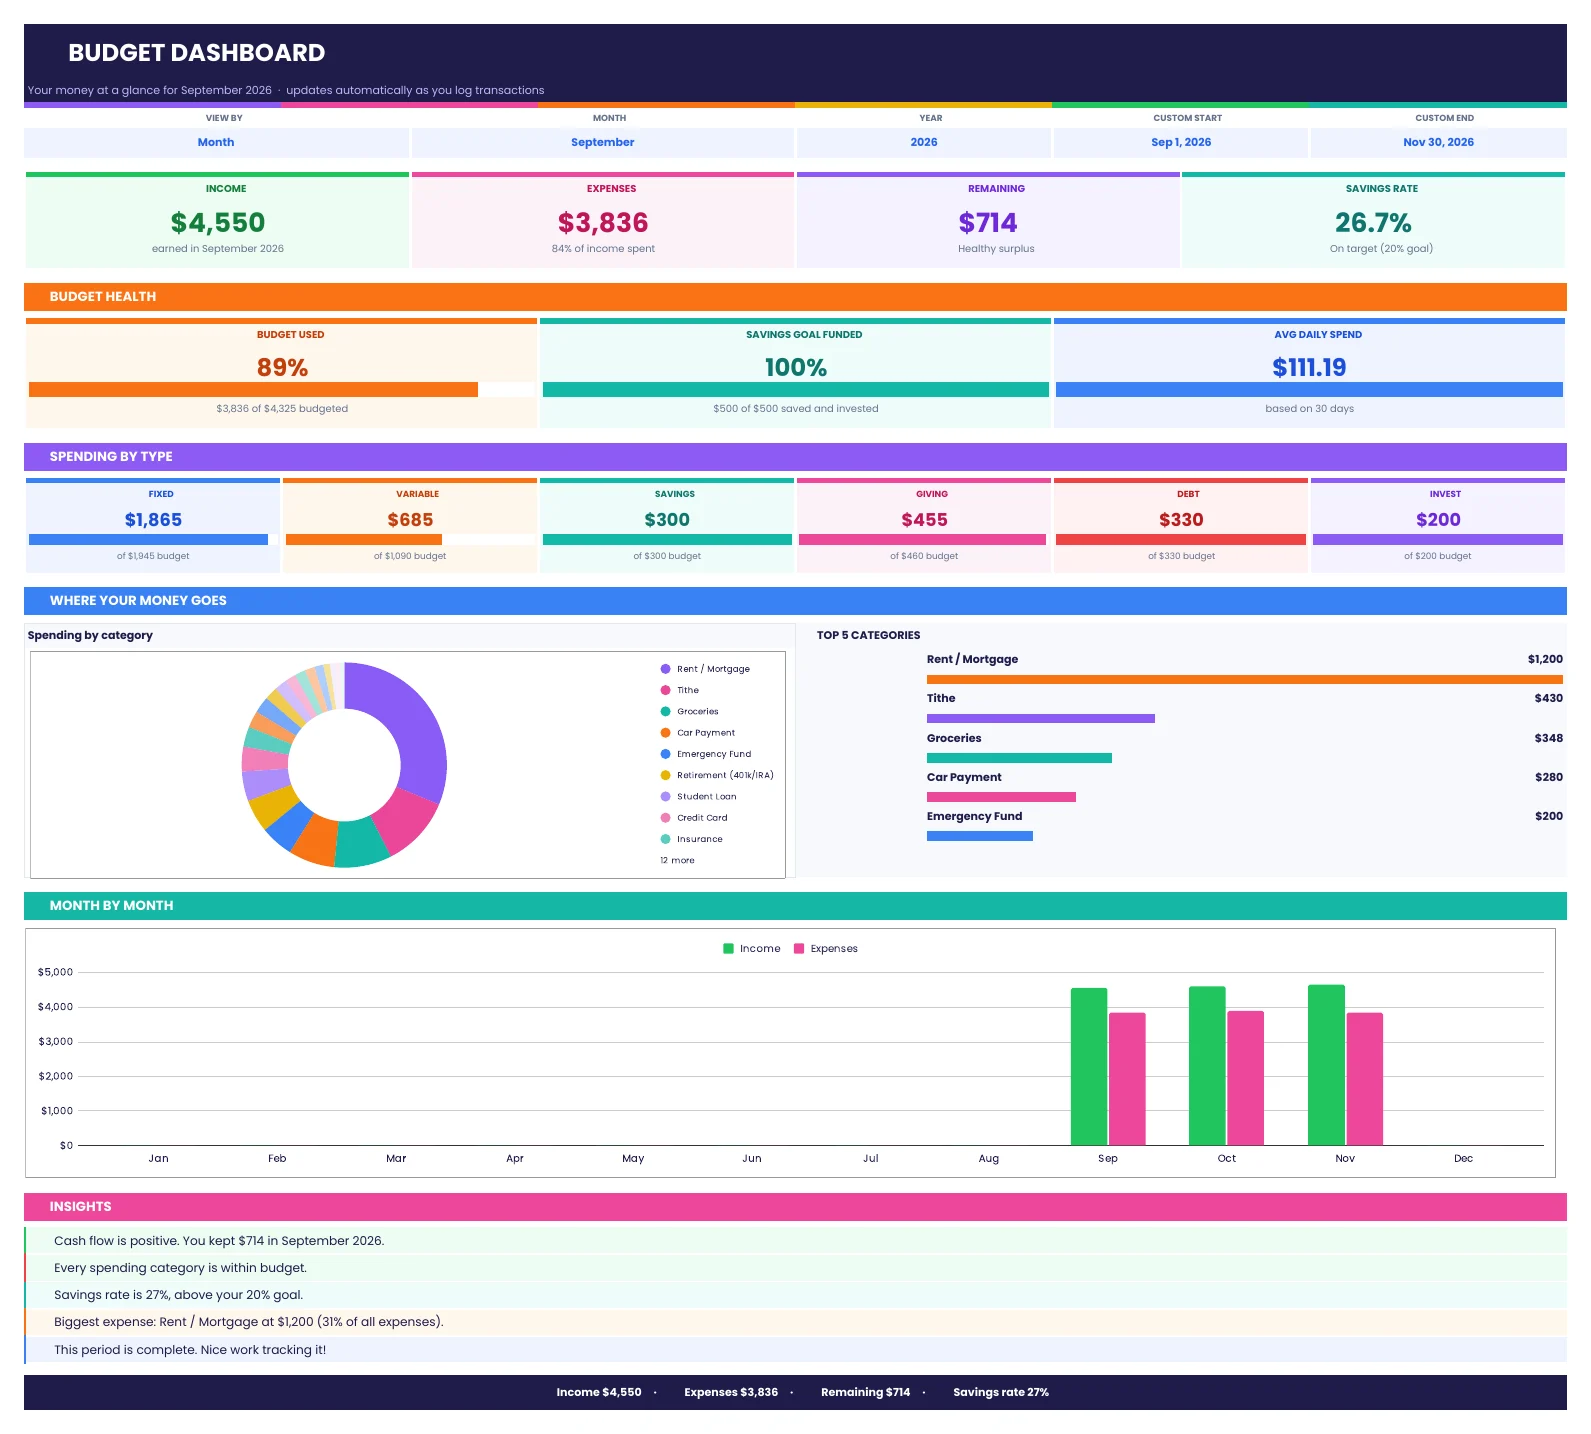
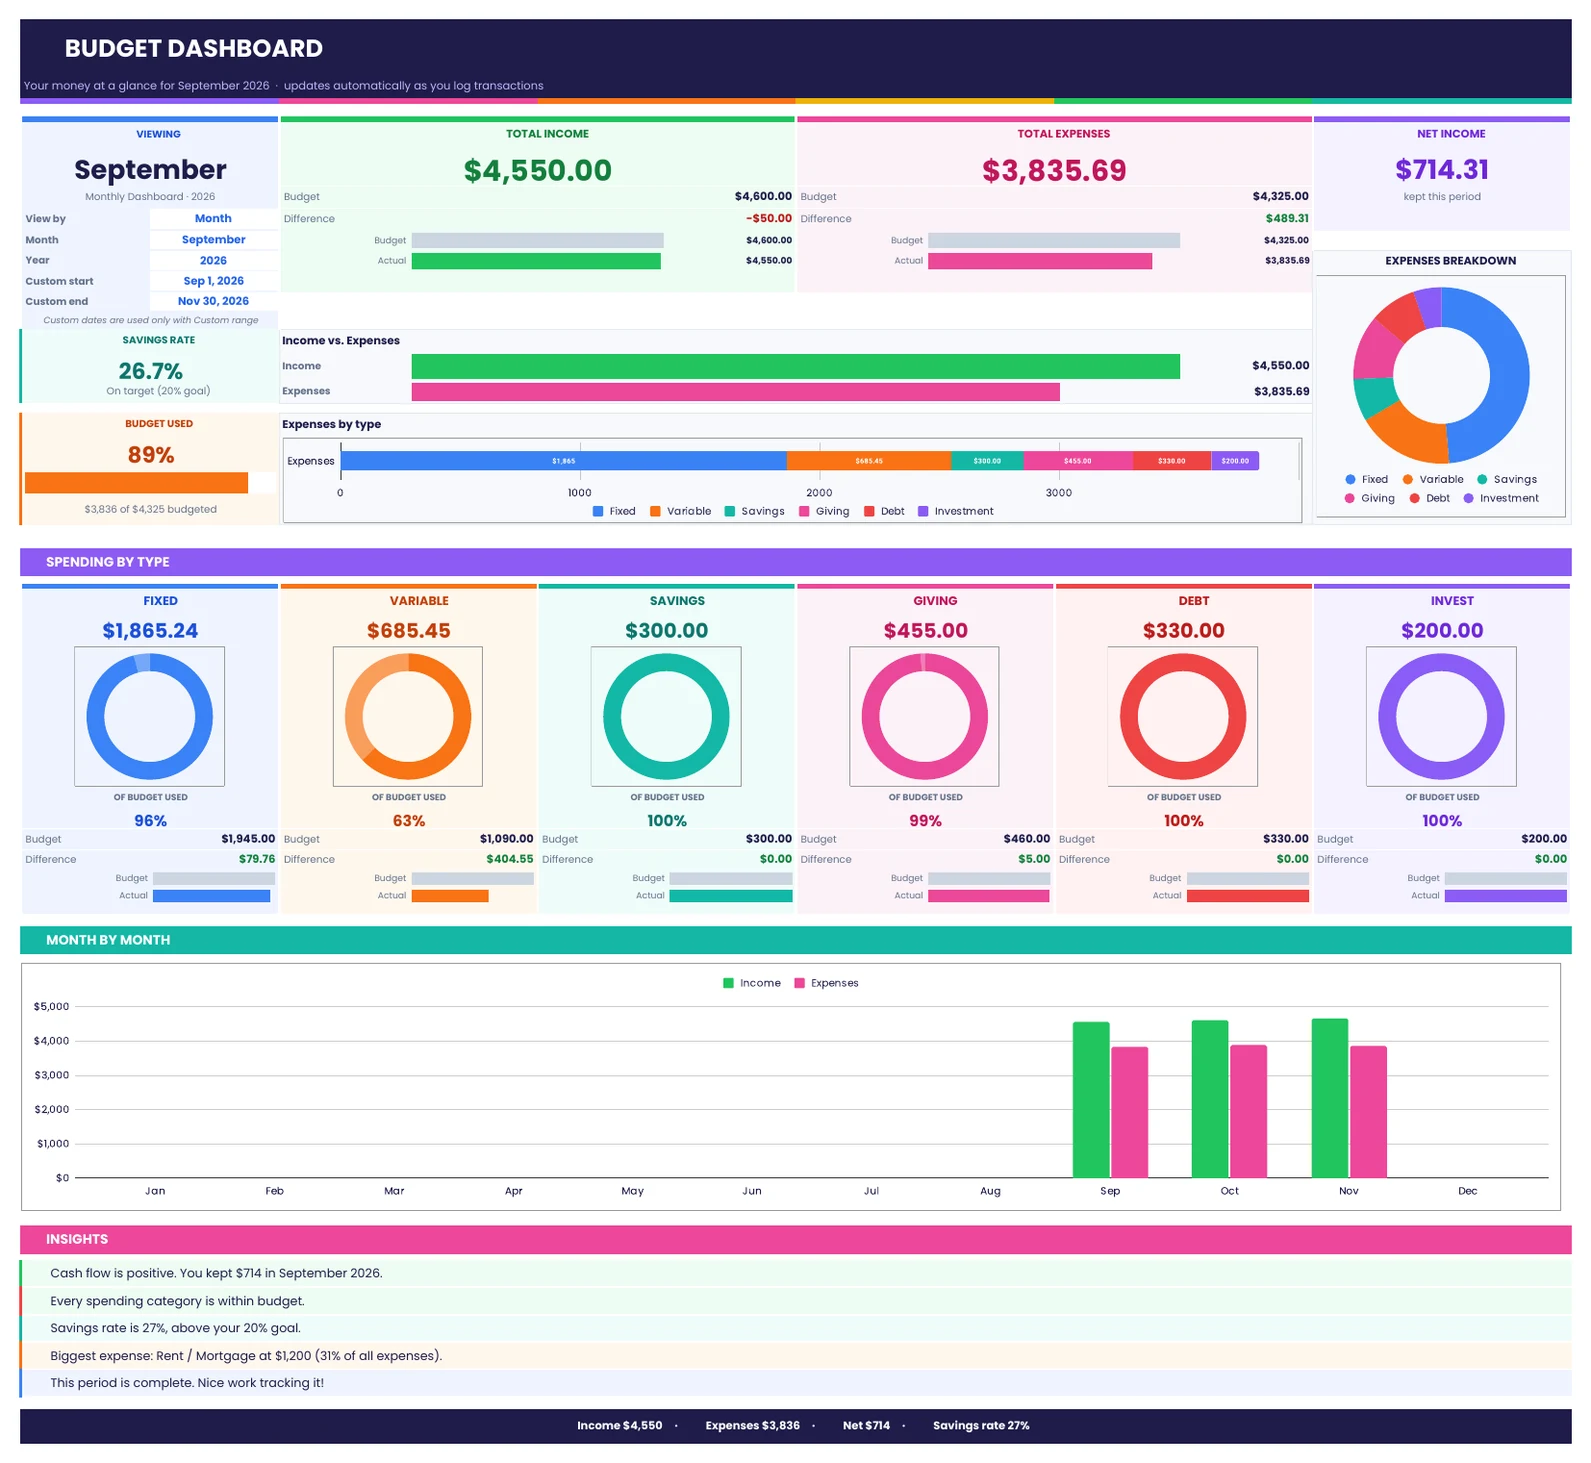
Show the redesigned Complete Budget dashboard
Claude-Session: https://claude.ai/code/session_01C2kAzzSvvJwqZVFUDqg7e4

diff --git a/public/assets/products.js b/public/assets/products.js
@@ -32,7 +32,7 @@ window.PRODUCTS = {
     popular: true,
     image: "/assets/sheets/complete/card.webp",
     gallery: [
-      { src: "/assets/sheets/complete/dashboard.webp", alt: "Budget dashboard with income, expenses, remaining and savings rate cards, budget health bars, spending by type, a spending donut chart, top 5 categories, a month-by-month chart and insights" },
+      { src: "/assets/sheets/complete/dashboard.webp", alt: "Budget dashboard with a period picker, income and expense cards with budget vs. actual bars, net income, an expenses donut chart, a ring chart for each spending type, a month-by-month chart and insights" },
       { src: "/assets/sheets/complete/budget.webp", alt: "Budget planner tab with color-coded category types, monthly budgets, actual spending, differences and progress bars" },
       { src: "/assets/sheets/complete/transactions.webp", alt: "Transactions tab with date, description, category, automatic type, payment method and amount columns" },
     ],
@@ -41,7 +41,7 @@ window.PRODUCTS = {
       "Income tracking with savings rate and cash flow",
       "Category types: Fixed, Variable, Savings, Giving, Debt, Investment",
       "View by month, quarter, year or a custom date range",
-      "Colorful dashboard with cards, charts and a Top 5 list",
+      "Colorful dashboard with budget vs. actual cards and a ring chart for each spending type",
       "Automatic insights, like how much you can spend per day",
       "Budget vs. actual with progress bars for every category",
       "Settings for payment methods and your savings goal",
